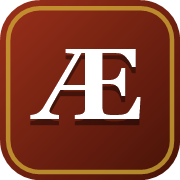
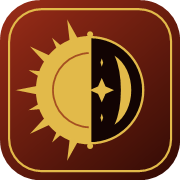
Replace medieval ligature with classical Aequinoctium (Sol & Luna) celestial emblem

diff --git a/index.html b/index.html
@@ -8,19 +8,19 @@
   <meta name="theme-color" content="#8c2d19">
 
   <!-- Favicon & Brand Icons -->
-  <link rel="icon" type="image/svg+xml" href="favicon.svg?v=2.7">
-  <link rel="alternate icon" type="image/png" sizes="32x32" href="favicon-32x32.png?v=2.7">
-  <link rel="apple-touch-icon" sizes="180x180" href="apple-touch-icon.png?v=2.7">
-  <link rel="shortcut icon" href="favicon.ico?v=2.7">
+  <link rel="icon" type="image/svg+xml" href="favicon.svg?v=2.8">
+  <link rel="alternate icon" type="image/png" sizes="32x32" href="favicon-32x32.png?v=2.8">
+  <link rel="apple-touch-icon" sizes="180x180" href="apple-touch-icon.png?v=2.8">
+  <link rel="shortcut icon" href="favicon.ico?v=2.8">
 
   <!-- Google Fonts for Classical Typography -->
   <link rel="preconnect" href="https://fonts.googleapis.com">
   <link href="https://fonts.googleapis.com/css2?family=Gentium+Plus:ital,wght@0,400;0,700;1,400;1,700&family=EB+Garamond:ital,wght@0,400;0,600;0,700;1,400;1,600;1,700&family=Cardo:ital,wght@0,400;0,700;1,400&family=Inter:wght@400;500;600;700&display=swap" rel="stylesheet">
 
   <!-- CSS Stylesheets -->
-  <link rel="stylesheet" href="css/style.css?v=2.7">
-  <link rel="stylesheet" href="css/components.css?v=2.7">
-  <link rel="stylesheet" href="css/responsive.css?v=2.7">
+  <link rel="stylesheet" href="css/style.css?v=2.8">
+  <link rel="stylesheet" href="css/components.css?v=2.8">
+  <link rel="stylesheet" href="css/responsive.css?v=2.8">
 
   <!-- Privacy-friendly Web Analytics (GoatCounter) -->
   <script data-goatcounter="https://genaraltinisik.goatcounter.com/count" async src="//gc.zgo.at/count.js"></script>
@@ -32,7 +32,9 @@
     <div class="header-container">
       <!-- Branding -->
       <a href="#" id="brandLogoLink" class="brand-section">
-        <div class="brand-icon">Æ</div>
+        <div class="brand-icon">
+          <img src="favicon.svg?v=2.8" alt="Latince Ekinoks Sembolü" width="42" height="42">
+        </div>
         <div class="brand-titles">
           <span class="brand-title">Latince Ekinoks</span>
           <span class="brand-subtitle">İ.Ü. Klasik Filoloji • Latince Gramer 3</span>

diff --git a/css/style.css b/css/style.css
@@ -151,17 +151,20 @@ body {
 .brand-icon {
   width: 42px;
   height: 42px;
-  background: linear-gradient(135deg, var(--primary) 0%, #4a150b 100%);
-  color: #fff;
   border-radius: var(--radius-md);
   display: flex;
   align-items: center;
   justify-content: center;
-  font-family: var(--font-serif);
-  font-size: 1.4rem;
-  font-weight: 700;
+  overflow: hidden;
   box-shadow: 0 2px 6px rgba(140, 45, 25, 0.35);
   flex-shrink: 0;
+}
+
+.brand-icon img {
+  width: 100%;
+  height: 100%;
+  object-fit: cover;
+  display: block;
 }
 
 .brand-titles {
